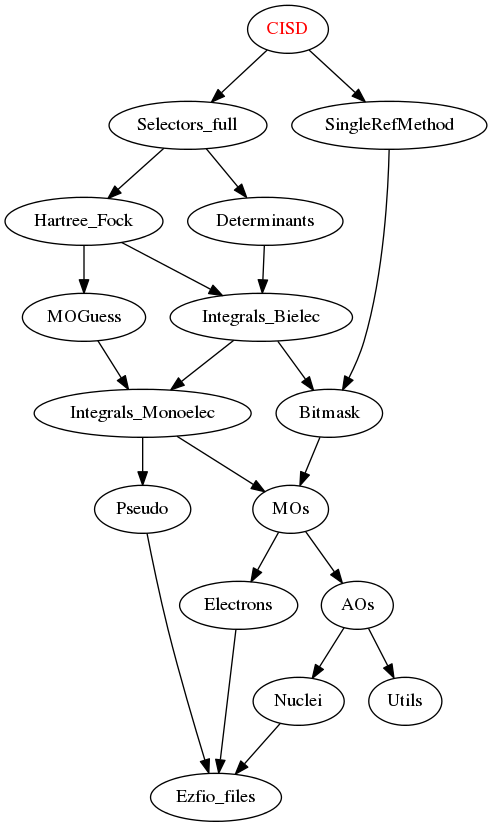
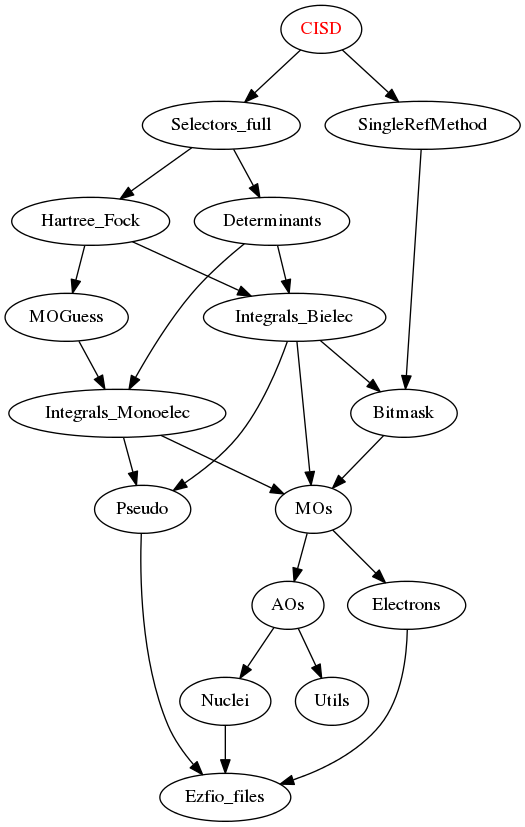
Fix a dependancy when disosiate bielec_integral and mono_elec

diff --git a/src/Integrals_Monoelec/README.rst b/src/Integrals_Monoelec/README.rst
@@ -25,12 +25,6 @@ Documentation
 `do_print <http://github.com/LCPQ/quantum_package/tree/master/src/Integrals_Monoelec/check_orthonormality.irp.f#L11>`_
   Undocumented
 
-`n_pt_max_i_x <http://github.com/LCPQ/quantum_package/tree/master/src/Integrals_Monoelec/dimensions.irp.f#L2>`_
-  Undocumented
-
-`n_pt_max_integrals <http://github.com/LCPQ/quantum_package/tree/master/src/Integrals_Monoelec/dimensions.irp.f#L1>`_
-  Undocumented
-
 `ao_deriv2_x <http://github.com/LCPQ/quantum_package/tree/master/src/Integrals_Monoelec/kin_ao_ints.irp.f#L1>`_
   second derivatives matrix elements in the ao basis
   .. math::

diff --git a/src/Integrals_Bielec/README.rst b/src/Integrals_Bielec/README.rst
@@ -18,7 +18,8 @@ Needed Modules
 
 .. image:: tree_dependancy.png
 
-* `Integrals_Monoelec <http://github.com/LCPQ/quantum_package/tree/master/src/Integrals_Monoelec>`_
+* `Pseudo <http://github.com/LCPQ/quantum_package/tree/master/src/Pseudo>`_
+* `MOs <http://github.com/LCPQ/quantum_package/tree/master/src/MOs>`_
 * `Bitmask <http://github.com/LCPQ/quantum_package/tree/master/src/Bitmask>`_
 
 Documentation

diff --git a/src/Determinants/README.rst b/src/Determinants/README.rst
@@ -34,6 +34,7 @@ Needed Modules
 
 .. image:: tree_dependancy.png
 
+* `Integrals_Monoelec <http://github.com/LCPQ/quantum_package/tree/master/src/Integrals_Monoelec>`_
 * `Integrals_Bielec <http://github.com/LCPQ/quantum_package/tree/master/src/Integrals_Bielec>`_
 
 Documentation
